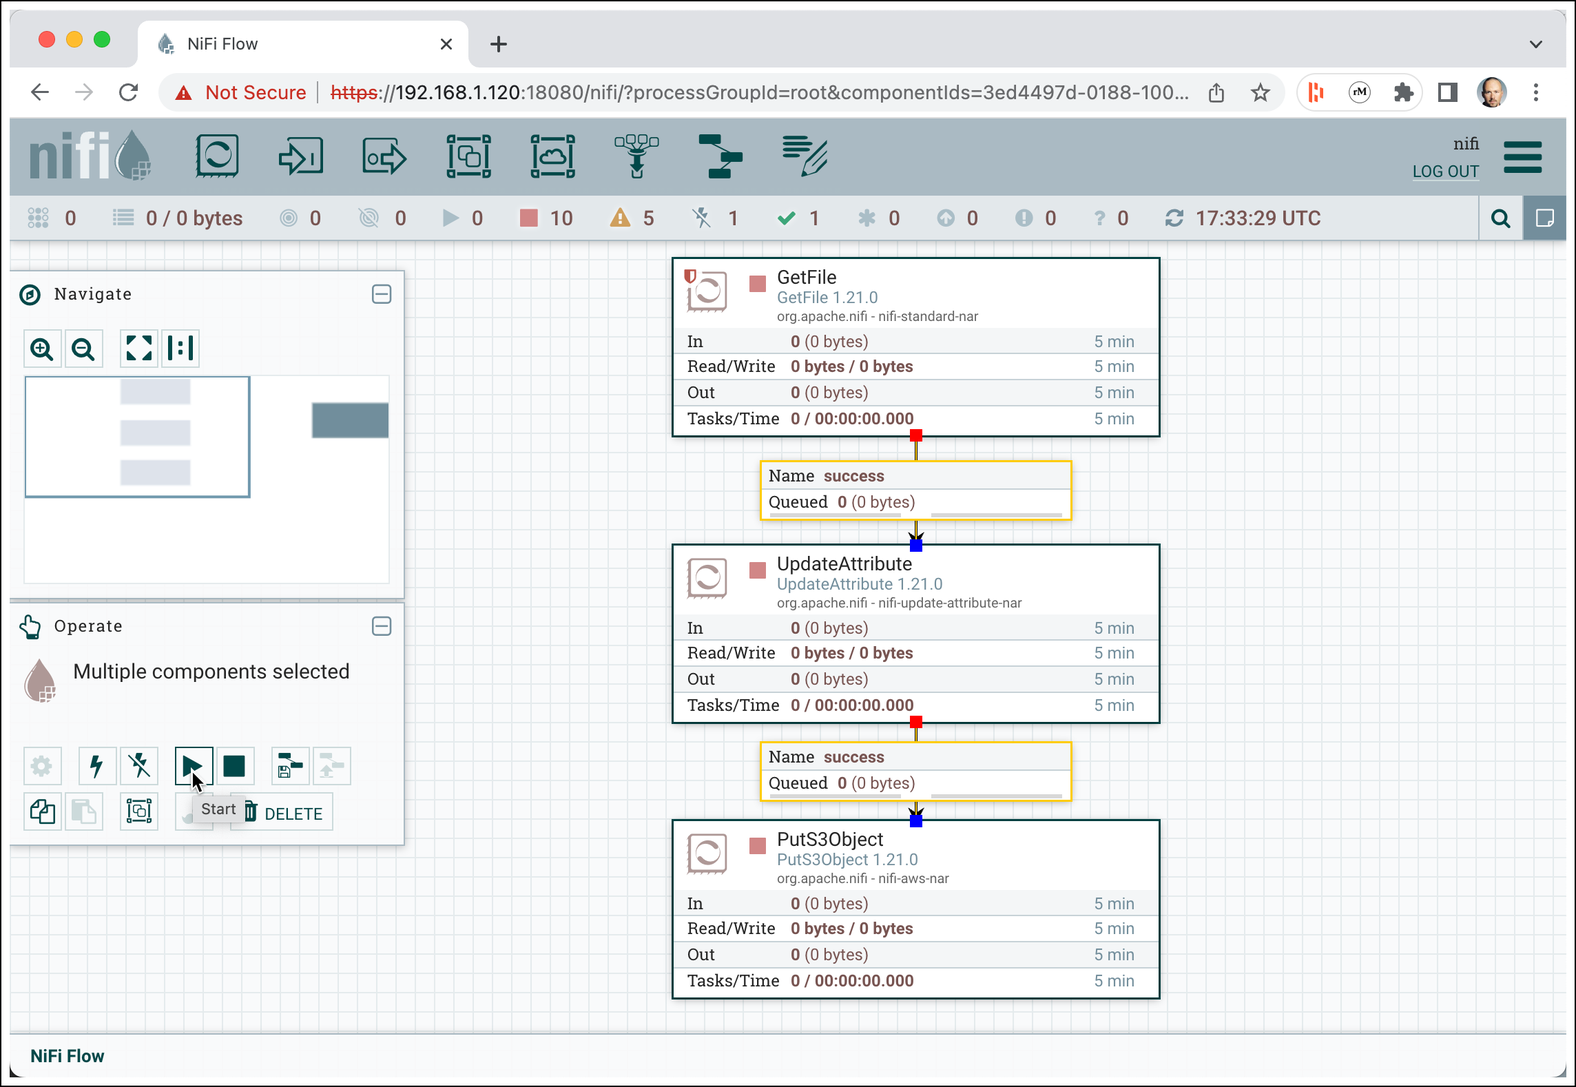
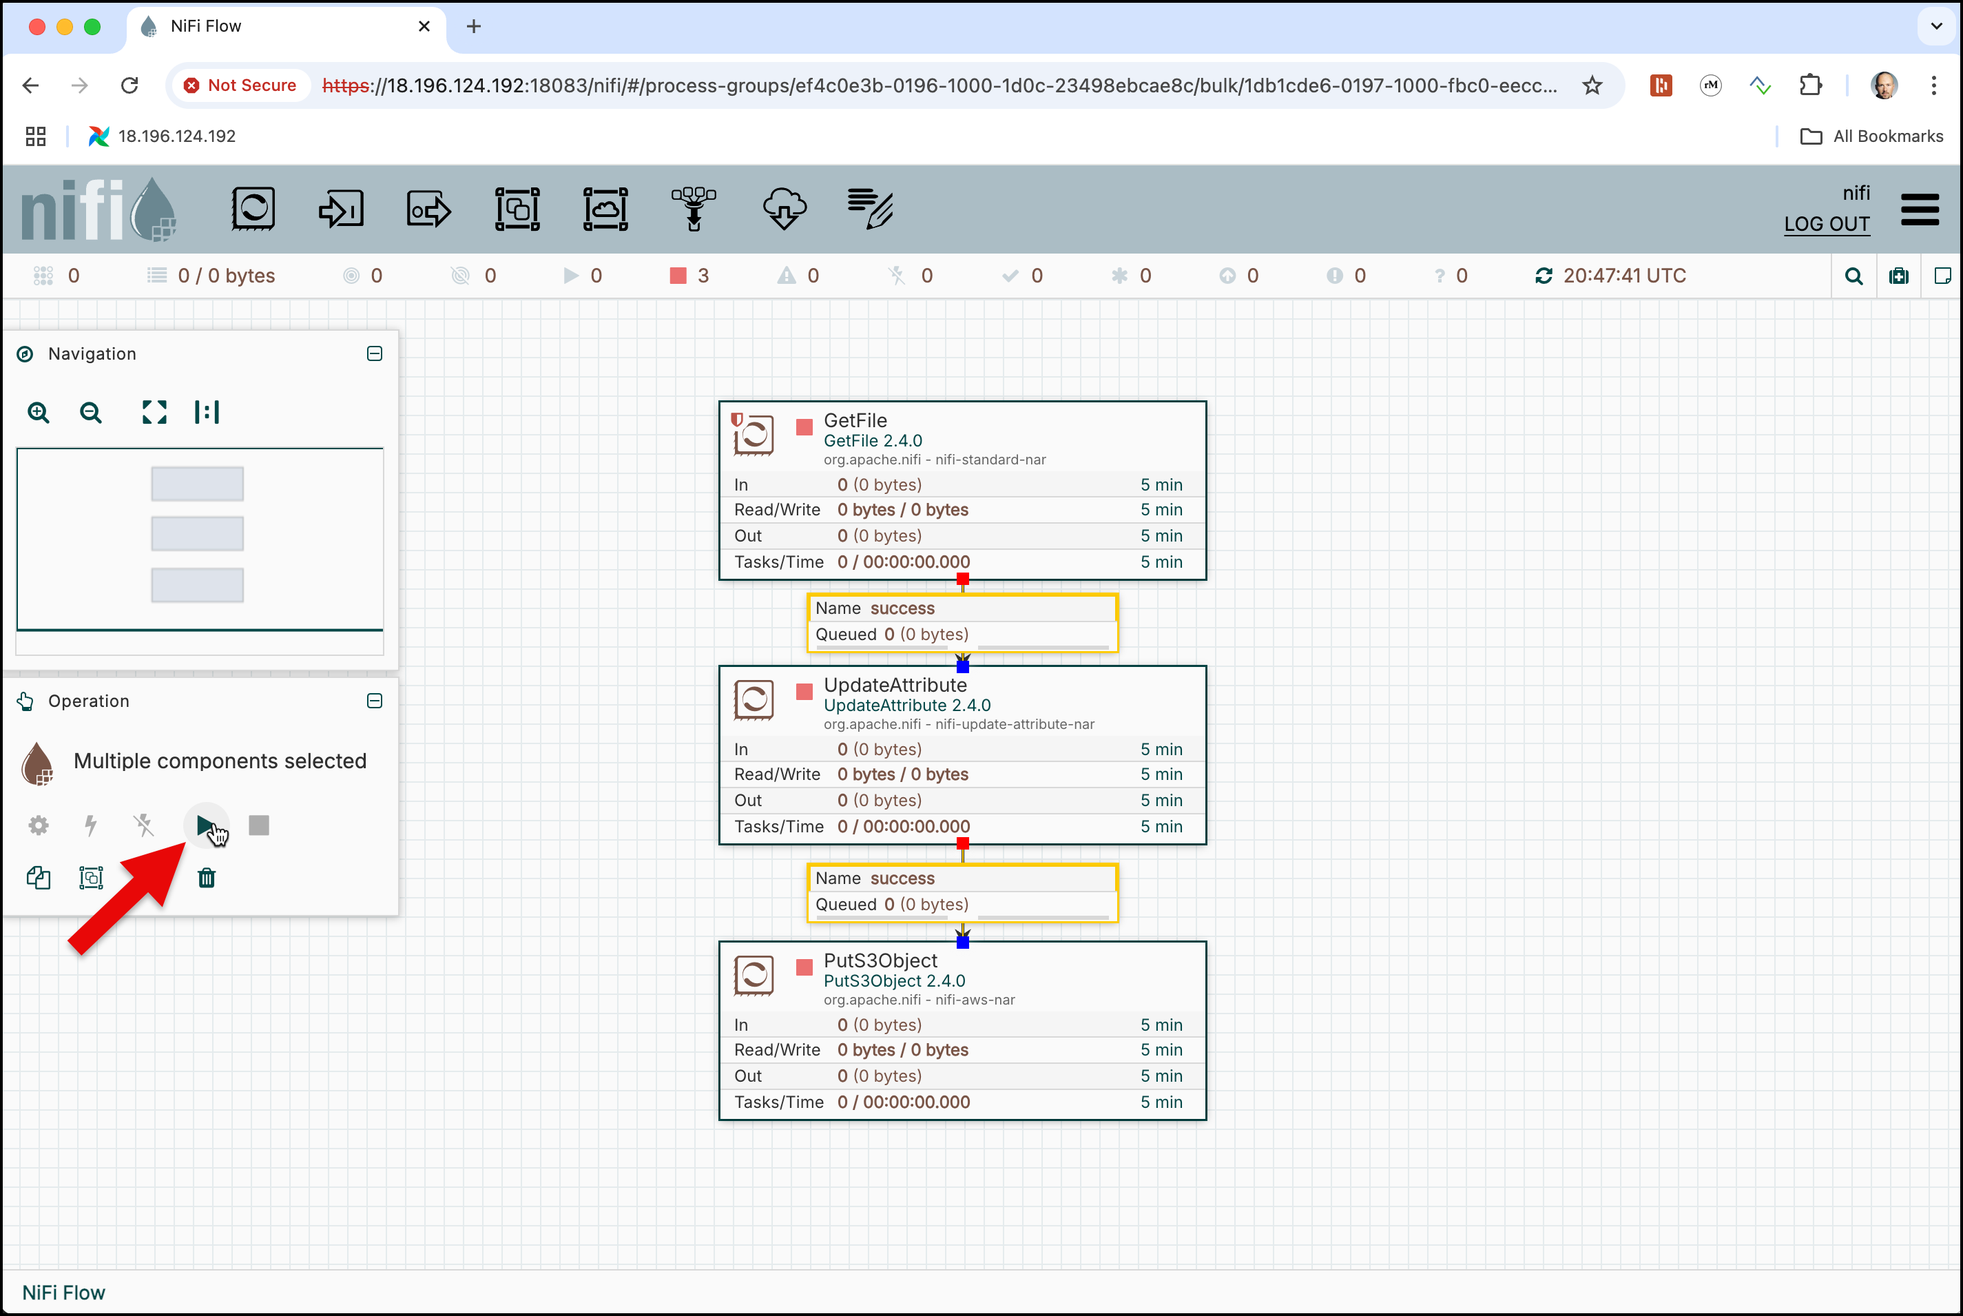
update airport-data and nifi workshop to nifi 2.x

Changed region(s): [[0.0, 0.0, 1.0, 1.0], [0.0, 0.2795, 0.2483, 0.8074]]

diff --git a/10-data-ingestion-with-nifi/README.md b/10-data-ingestion-with-nifi/README.md
@@ -18,6 +18,12 @@ In a terminal, navigate to the `data-transfer` folder.
 cd $DATAPLATFORM_HOME/data-transfer
 ```
 
+We will use a folder `landing-zone` which we need to create
+
+```bash
+mkdir -p landing-zone
+```
+
 now perform a `chown` to change the owner of all subfolders
 
 ```bash
@@ -28,22 +34,31 @@ check that the folders are now under the right user
 
 ```bash
 $ ls -lsa
-4 drwxr-xr-x 10 root   root   4096 Jun  6 10:33 .
-4 drwxr-xr-x 17 root   root   4096 Jun  6 10:22 ..
-4 drwxr-xr-x  2 ubuntu ubuntu 4096 Jun  6 10:33 adventureworks
-4 drwxr-xr-x  3 ubuntu ubuntu 4096 Jun  6 10:22 cookbook-data
-4 drwxr-xr-x  5 ubuntu ubuntu 4096 Jun  6 10:33 flight-data
-4 drwxr-xr-x  2 ubuntu ubuntu 4096 Jun  6 10:33 graphdb-news
-4 drwxr-xr-x  2 ubuntu ubuntu 4096 Jun  6 10:33 imdb-movies
-4 drwxr-xr-x  2 ubuntu ubuntu 4096 Jun  6 12:21 landing-zone
-4 -rw-r--r--  1 ubuntu ubuntu   59 Jun  6 10:22 readme.txt
-4 drwxr-xr-x  2 ubuntu ubuntu 4096 Jun  6 10:22 synthetic-load-generator
+4 drwxr-xr-x 16 ubuntu ubuntu 4096 May 29 20:39 .
+4 drwxr-xr-x 15 ubuntu ubuntu 4096 May 29 19:41 ..
+8 -rw-r--r--  1 ubuntu ubuntu 5472 May 22 11:55 00000000000000000000.json
+8 -rw-r--r--  1 ubuntu ubuntu 4597 May 22 18:12 00000000000000000001.json
+4 -rw-r--r--  1 ubuntu ubuntu 2893 May 22 18:18 00000000000000000002.json
+4 drwxr-xr-x  2 ubuntu ubuntu 4096 May 29 19:46 adventureworks
+4 drwxr-xr-x  2 ubuntu ubuntu 4096 May 29 19:46 airport-data
+4 drwxrwxr-x  2 ubuntu ubuntu 4096 May 29 17:06 app
+4 drwxr-xr-x  5 ubuntu ubuntu 4096 May 29 19:46 flight-data
+4 drwxr-xr-x  2 ubuntu ubuntu 4096 May 29 19:46 graphdb-news
+4 drwxr-xr-x  2 ubuntu ubuntu 4096 May 29 19:46 imdb-movies
+4 drwxrwxr-x  2 ubuntu ubuntu 4096 May 29 20:39 landing-zone
+4 drwxr-xr-x  4 ubuntu ubuntu 4096 May 20 19:58 movie-lens-small
+4 drwxr-xr-x  2 ubuntu ubuntu 4096 May 29 19:46 nyc-film-permits
+4 drwxr-xr-x  2 ubuntu ubuntu 4096 May 29 19:46 orion-star
+4 drwxr-xr-x  3 ubuntu ubuntu 4096 May 20 19:58 platys-cookbooks
+4 -rw-r--r--  1 ubuntu ubuntu   59 May 20 19:47 readme.txt
+4 drwxr-xr-x  4 ubuntu ubuntu 4096 May 22 11:37 result
+4 drwxr-xr-x  2 ubuntu ubuntu 4096 May 20 19:47 synthetic-load-generator
+4 drwxr-xr-x  2 ubuntu ubuntu 4096 May 29 19:46 wordcount
 ```
-
 
 ## Create the Nifi data flow
 
-In a browser navigate to <https://dataplatform:18080/nifi> (make sure to replace `dataplatform` by the IP address of the machine where docker runs on,). We have enabled authentication for NiFi, therefore you have to use https to access it. Due to the use of a self-signed certificate, you have to initially confirm that the page is safe and you want to access the page.
+In a browser navigate to <https://dataplatform:18083/nifi> (make sure to replace `dataplatform` by the IP address of the machine where docker runs on,). We have enabled authentication for NiFi, therefore you have to use https to access it. Due to the use of a self-signed certificate, you have to initially confirm that the page is safe and you want to access the page.
 
 ![Alt Image Text](./images/nifi-login.png "Nifi Login")
 
@@ -63,7 +78,7 @@ We can now begin creating our data flow by adding a Processor to our canvas. To 
 
 ![Alt Image Text](./images/nifi-drag-processor-into-canvas.png "Schema Registry UI")
 
-This will give us a dialog that allows us to choose which Processor we want to add. We can see that there are a total of 260 processors currently available. We can browse through the list or use the tag cloud on the left to filter the processors by type.
+This will give us a dialog that allows us to choose which Processor we want to add. We can see that there are a total of 290 processors currently available. We can browse through the list or use **filter types** box to filter-down to one or more processors.
 
 ![Alt Image Text](./images/nifi-add-processor.png "Schema Registry UI")
 
@@ -75,9 +90,11 @@ You should now see the canvas with the **GetFile** processor. A yellow marker is
 
 ![Alt Image Text](./images/nifi-canvas-with-getfile-processor-1.png "Schema Registry UI")
 
-Double-click on the **GetFile** processor and the properties page of the processor appears. Here you can change the name of the processor among other general properties.
+Double-click on the **GetFile** processor and the **Settings** page of the processor appears. Here you can change the name of the processor among other general properties.
 
-Click on **PROPERTIES** tab to switch to the properties page.
+![Alt Image Text](./images/nifi-getfile-processor-settings-1.png "Schema Registry UI")
+
+Click on **Properties** tab to switch to the properties page.
 
 ![Alt Image Text](./images/nifi-getfile-processor-properties-1.png "Schema Registry UI")
 
@@ -94,7 +111,7 @@ The **Configure Processor** should look as shown below
 
 ![Alt Image Text](./images/nifi-getfile-processor-properties-2.png "Schema Registry UI")
 
-Click **APPLY** to close the window.
+Click **Apply** to close the window.
 
 The `GetFile` processor still shows the yellow marker, this is because the out-going relationship is neither used nor terminated. Of course we want to use it, but for that we first need another Processor to store the data in S3 object storage. 
 
@@ -102,22 +119,24 @@ The `GetFile` processor still shows the yellow marker, this is because the out-g
 
 Drag a new Processor onto the Canvas, just below the **GetFile** processor. 
 
-Enter **PutS3** into the Filter field on top right. Only a single processor, the `PutS3Object` is shown.
+Enter **PutS3** into the **Filter types** field on top left. Only a single processor, the `PutS3Object` is shown.
 
 ![Alt Image Text](./images/nifi-add-processor-search-puts3.png "Schema Registry UI")
 
-Click on **ADD** to add it to the canvas as well. The canvas should now look like shown below. You can drag around the processor to organize them in the right order. It is recommended to organize the in main flow direction, either top-to-bottom or left-to-right. 
+Click on **Add** to add it to the canvas as well. The canvas should now look like shown below. You can drag around the processor to organize them in the right order. It is recommended to organize the in main flow direction, either top-to-bottom or left-to-right. 
 
 ![Alt Image Text](./images/nifi-canvas-with-two-processor.png "Schema Registry UI")
 
-Let's configure the new processor. Double-click on the `PutS3Object` and navigate to **PROPERTIES**.
+Let's configure the new processor. Double-click on the `PutS3Object` and navigate to **Properties**. Enter the following values:
 
-  * **Object Key**: `/raw/airport/${ingestionTime}/${filename}`
   * **Bucket**: `flight-nifi-bucket`
-  * **Access Key ID**: V42FCGRVMK24JJ8DHUYG`
-  * **Secret Access Key**: `bKhWxVF3kQoLY9kFmt91l+tDrEoZjqnWXzY9Eza`
+  * **Object Key**: `/raw/airport/${ingestionTime}/${filename}`
+  * **Region**: `US East (N. Virginia)`
   * **Endpoint Override URL**: `http://minio-1:9000`
   * **Use Path Style Access**: `true`
+  * **AWS Credentials Provider Service**: click on the 3 dots and select **Create new service** and click **Add** to add a new service of type **AWSCredentialsProviderControllerService**. Click again on the 3 dots and select **Go To Service** and confirm with **Yes**. On the **Controller Services** pop-up page, click on the 3 dots right to the ` AWSCredentialsProviderControllerService` and select **Edit**. Navigate to the **Properties** tab and enter these values and click **Apply** and **Back to Processor**
+  	* **Access Key ID**: `admin`
+	* **Secret Access Key**: `bKhWxVF3kQoLY9kFmt91l+tDrEoZjqnWXzY9Eza`
 
 The **Configure Processor** should look as shown below. 
 
@@ -125,31 +144,29 @@ The **Configure Processor** should look as shown below.
 
 **Note**: NiFi does not display username and password values, they are instead shown as `Sensitive value set` when they hold a value.
 
-**Note2**: you can also use an [AWSCredentialsProviderControllerService](https://nifi.apache.org/docs/nifi-docs/components/org.apache.nifi/nifi-aws-nar/current/org.apache.nifi.processors.aws.credentials.provider.service.AWSCredentialsProviderControllerService/index.html) to define the credentials for S3. This also allows for externalising the AWS access key and secret key in properties file format.
+Because we already saved the settings, we can click **Cancel** to close the pop-up window. 
 
-Click **APPLY** to close the window.
-
-We also use a variable `ingestionTime` in the **Object Key** expression, which we need to set to the current timestamp when a file is processed. We will do that now by adding an additional **UpdateAttribute** processor.
+We also use a variable `ingestionTime` in the **Object Key** expression above, which we need to set to the current timestamp when a file is processed. We will do that now by adding an additional **UpdateAttribute** processor.
 
 ### Set Variable using `UpdateAttribute` processor
 
 Drag a new Processor onto the Canvas, in between the **GetFile** and **PutS3Object** processor. 
 
-Enter **updateA** into the Filter field on top right. Only a single processor, the `UpdateAttribute ` is shown. Click **ADD** to add it to the canvas as well
+Enter **updateA** into the Filter field on top right. Only a single processor, the `UpdateAttribute ` is shown. Click **Add** to add it to the canvas as well.
 
-Now let's configure the new processor. Double-click on the `UpdateAttribute ` and navigate to **PROPERTIES**. In this case we do not have to update an existing property but instead add a new one. Click on **+** in the upper right corner of the **Configure Processor** window. 
+Now let's configure the new processor. Double-click on the `UpdateAttribute ` and navigate to **Properties**. In this case we do not have to update an existing property but instead add a new one. Click on **+** in the upper right corner of the **Edit Processor** window. 
 
-Enter `ingestionTime` into the **Property Name** and click **OK**. Enter the following expression `${now():format("yyyy-MM-dd'T'HH:mm:ss")}` into the pop-up window for the value. 
+Enter `ingestionTime` into the **Property Name** and click **Ok**. Enter the following expression `${now():format("yyyy-MM-dd'T'HH:mm:ss")}` into the pop-up window for the value. 
 
 ![Alt Image Text](./images/nifi-updateattribute-processor-properties-1.png "Schema Registry UI")
 
-Click **OK** and then **APPLY**.
+Click **Ok** and then **Apply**.
 
-Now with the 3 processors on the canvas, ordered in the direction of the data flow
+Now we have 3 processors on the canvas, and we should organize them in the direction of the data flow, either horizontal (left to right) or vertical (top to bottom)
 
 ![Alt Image Text](./images/nifi-canvas-with-three-processor.png "Schema Registry UI")
 
-all we have to do before we can run it is connecting the processors.
+Before we can run the pipeline, we of course have to connect the processors. 
 
 ### Connecting the Processors
 
@@ -157,34 +174,39 @@ Drag a connection from the **GetFile** processor to the **UpdateProcessor** and 
 
 ![Alt Image Text](./images/nifi-drag-connection.png "Schema Registry UI")
 
-Make sure that **For Relationship** is enabled for the `success` relationship and click **ADD**. 
+Make sure that the `success` **Relationship** is enabled and click **Add**. 
 
 Repeat it for the connection from **UpdateAttribute** to **PutS3Object**. The data flow on the canvas should now look as shown below
 
 ![Alt Image Text](./images/nifi-canvas-with-connected-processor.png "Schema Registry UI")
 
-The first two processor no longer hold the yellow marker, but now show the red stop marker, meaning that these two processors can be started. But what about the last one, the **PutS3Object** processor?
+The first two processor no longer hold the yellow marker, but instead show the red stop marker, meaning that these two processors can be started. But what about the last one, the **PutS3Object** processor?
 
 If you navigate to the marker, a tool-tip will show the errors. 
 
 ![Alt Image Text](./images/nifi-puts3object-error-marker.png "Schema Registry UI")
 
-We can see that the processor has two outgoing relationships, which are not "used". We have to terminate them, if we have no use for it. 
-Double-click on the **PutS3Object** processor and navigate to **RELATIONSHIPS** and set the check-boxes for both relationships to **terminate**. 
+We can see that there are 3 errors on the **PutS3Object** processor. The first one indicates, that the controller service we have created before is still disabled. We can easily enable it by right-clicking on the canvas and selecting **Enable All Controller Services** from the context menu. 
+
+![](./images/nifi-enable-all-controller-services.png)
+
+The other two errors are caused by the processor having two outgoing relationships, which are not "used". We have to terminate them, if we have no use for it. 
+
+Double-click on the **PutS3Object** processor and navigate to **Relationships** and set the check-boxes for both relationships to **terminate**. 
 
 ![Alt Image Text](./images/nifi-terminate-relationships.png "Schema Registry UI")
 
-Click **APPLY** to save the settings.
+Click **Apply** to save the settings.
 
 Now our data flow is ready, so let's run it. 
 
 ### Starting the Data Flow 
 
-Select all 3 processor and click on the start arrow 
+Select all 3 processor (click ctrl-A) and navigate to the start arrow and click on it
 
 ![Alt Image Text](./images/nifi-start-dataflow.png "Schema Registry UI")
 
-to run the data flow. All three processors now show the green "started" or "running" marker. 
+This will run the 3 processors. All three processors now show the green "started" or "running" marker. 
 
 ![Alt Image Text](./images/nifi-running-dataflow.png "Schema Registry UI")
 
@@ -192,13 +214,13 @@ to run the data flow. All three processors now show the green "started" or "runn
 
 Now let's copy a file to be uploaded into the `/data-transfer/landing-zone` folder. You can either use a terminal window to do that or the file browser UI, as shown here. 
 
-Navigate to <http://dataplatform:28178> and login with `admin` for the user and the password. 
+Navigate to <http://dataplatform:28178> and login with `admin` for the **Username** and also `admin` for the **Password**. 
 
 ![Alt Image Text](./images/file-browser-home.png "Schema Registry UI")
 
-Navigate to **flight-data** folder by double-clicking on it and select the **airports.csv** file. 
+Navigate to **airport-data** folder by double-clicking on it and select the **airports.csv** file. 
 
-![Alt Image Text](./images/file-browser-flight-folder.png "Schema Registry UI")
+![Alt Image Text](./images/file-browser-airport-folder.png "Schema Registry UI")
 
 In the menu bar, click on the **Copy file** icon 
 
@@ -209,6 +231,10 @@ and navigate to the **landing-zone** folder and click **COPY**
 ![Alt Image Text](./images/file-browser-copy-file-2.png "Schema Registry UI")
 
 Let's see if our NiFi data flow has done its work!
+
+```bash
+docker exec -ti minio-mc mc mb minio-1/flight-nifi-bucket
+```
 
 In a terminal, use the `mc tree` command to  view the `flight-nifi-bucket`
 

diff --git a/06-data-types/README.md b/06-data-types/README.md
@@ -26,13 +26,13 @@ docker exec -ti minio-mc mc mb minio-1/flight-bucket
 **Airports:**
 
 ```bash
-docker exec -ti awscli s3cmd put /data-transfer/airports-data/airports.csv s3://flight-bucket/raw/airports/airports.csv
+docker exec -ti awscli s3cmd put /data-transfer/airport-data/airports.csv s3://flight-bucket/raw/airports/airports.csv
 ```
 
 or with `mc`
 
 ```bash
-docker exec -ti minio-mc mc cp /data-transfer/airports-data/airports.csv minio-1/flight-bucket/raw/airports/airports.csv
+docker exec -ti minio-mc mc cp /data-transfer/airport-data/airports.csv minio-1/flight-bucket/raw/airports/airports.csv
 ```
 
 ## Read CSV File
@@ -41,7 +41,7 @@ Let's read the raw airport data in CSV file format. You can either use Zeppelin,
 
 ```python
 from pyspark.sql.types import *
-airportsRawDF = spark.read.csv("file:///data-transfer/airports-data/airports.csv", 
+airportsRawDF = spark.read.csv("file:///data-transfer/airport-data/airports.csv", 
     	sep=",", inferSchema="true", header="true")
 airportsRawDF.show(5)
 ```
@@ -820,7 +820,7 @@ Finally let's import the data from the data-transfer folder.
 
 ```sql
 COPY flight_data.pg_airport_t(id, ident, type, name, latitude_deg, longitude_deg, elevation_ft, continent, iso_country, iso_region, municipality, scheduled_service, gps_code, iata_code, local_code, home_link, wikipedia_link, keywords) 
-FROM '/data-transfer/airports-data/airports.csv' DELIMITER ',' CSV HEADER;
+FROM '/data-transfer/airport-data/airports.csv' DELIMITER ',' CSV HEADER;
 ```
 
 Now in Pyspark (for example from Zeppelin) use the following statement to read from the `flight_data.pg_airport_t` table.

diff --git a/07-spark-deltalake/README.md b/07-spark-deltalake/README.md
@@ -24,13 +24,13 @@ docker exec -ti minio-mc mc mb minio-1/flight-bucket
 **Airports**:
 
 ```bash
-docker exec -ti awscli s3cmd put /data-transfer/airports-data/airports.csv s3://flight-bucket/raw/airports/airports.csv
+docker exec -ti awscli s3cmd put /data-transfer/airport-data/airports.csv s3://flight-bucket/raw/airports/airports.csv
 ```
 
 or with `mc`
 
 ```bash
-docker exec -ti minio-mc mc cp /data-transfer/airports-data/airports.csv minio-1/flight-bucket/raw/airports/airports.csv
+docker exec -ti minio-mc mc cp /data-transfer/airport-data/airports.csv minio-1/flight-bucket/raw/airports/airports.csv
 ```
 
 ## If you want to use `pyspark` instead of Zeppelin

diff --git a/04-spark-dataframe/README.md b/04-spark-dataframe/README.md
@@ -27,13 +27,13 @@ docker exec -ti minio-mc mc mb minio-1/flight-bucket
 **Airports:**
 
 ```bash
-docker exec -ti awscli s3cmd put /data-transfer/airports-data/airports.csv s3://flight-bucket/raw/airports/airports.csv
+docker exec -ti awscli s3cmd put /data-transfer/airport-data/airports.csv s3://flight-bucket/raw/airports/airports.csv
 ```
 
 or with `mc`
 
 ```bash
-docker exec -ti minio-mc mc cp /data-transfer/airports-data/airports.csv minio-1/flight-bucket/raw/airports/airports.csv
+docker exec -ti minio-mc mc cp /data-transfer/airport-data/airports.csv minio-1/flight-bucket/raw/airports/airports.csv
 ```
 
 **Plane-Data:**

diff --git a/08-spark-graphframe/README.md b/08-spark-graphframe/README.md
@@ -27,13 +27,13 @@ docker exec -ti minio-mc mc mb minio-1/flight-bucket
 **Airports:**
 
 ```bash
-docker exec -ti awscli s3cmd put /data-transfer/flight-data/airports.csv s3://flight-bucket/raw/airports/airports.csv
+docker exec -ti awscli s3cmd put /data-transfer/airport-data/airports.csv s3://flight-bucket/raw/airports/airports.csv
 ```
 
 or with `mc`
 
 ```bash
-docker exec -ti minio-mc mc cp /data-transfer/flight-data/airports.csv minio-1/flight-bucket/raw/airports/airports.csv
+docker exec -ti minio-mc mc cp /data-transfer/airport-data/airports.csv minio-1/flight-bucket/raw/airports/airports.csv
 ```
 
 **Plane-Data:**

diff --git a/09-sql-on-bigdata-with-trino/README.md b/09-sql-on-bigdata-with-trino/README.md
@@ -670,7 +670,7 @@ Finally let's import the data from the data-transfer folder.
 
 ```sql
 COPY flight_data.pg_airport_t(id, ident, type, name, latitude_deg, longitude_deg, elevation_ft, continent, iso_country, iso_region, municipality, scheduled_service, gps_code, iata_code, local_code, home_link, wikipedia_link, keywords) 
-FROM '/data-transfer/airports-data/airports.csv' DELIMITER ',' CSV HEADER;
+FROM '/data-transfer/airport-data/airports.csv' DELIMITER ',' CSV HEADER;
 ```
 
 ### Query Table from Trino

diff --git a/02a-minio-object-storage/README.md b/02a-minio-object-storage/README.md
@@ -117,7 +117,7 @@ The `admin-bucket` has been created when starting the platform.
 To upload a file we are going to use the `cp` command of the `minio-mc`. First for the `airports.csv`
 
 ```bash
-docker exec -ti minio-mc mc cp /data-transfer/airports-data/airports.csv minio-1/flight-bucket/raw/airports/airports.csv
+docker exec -ti minio-mc mc cp /data-transfer/airport-data/airports.csv minio-1/flight-bucket/raw/airports/airports.csv
 ```
 
 and then also for the `plane-data.csv` file. 

diff --git a/11-scheduling-with-airflow/README.md b/11-scheduling-with-airflow/README.md
@@ -164,7 +164,7 @@ with DAG(
 
     upload_airports_local_to_s3_task = LocalFilesystemToS3Operator(
         task_id="upload_airports_local_to_s3_job",
-        filename="/data-transfer/airports-data/airports.csv",
+        filename="/data-transfer/airport-data/airports.csv",
         dest_key="raw/airports/airports.csv",
         dest_bucket="flight-bucket",
         aws_conn_id="aws-s3",

diff --git a/05-spark-application/README.md b/05-spark-application/README.md
@@ -23,7 +23,7 @@ docker exec -ti minio-mc mc mb minio-1/flight-bucket
 **Airports:**
 
 ```bash
-docker exec -ti awscli s3cmd put /data-transfer/airports-data/airports.csv s3://flight-bucket/raw/airports/airports.csv
+docker exec -ti awscli s3cmd put /data-transfer/airport-data/airports.csv s3://flight-bucket/raw/airports/airports.csv
 ```
 
 **Flights:**
